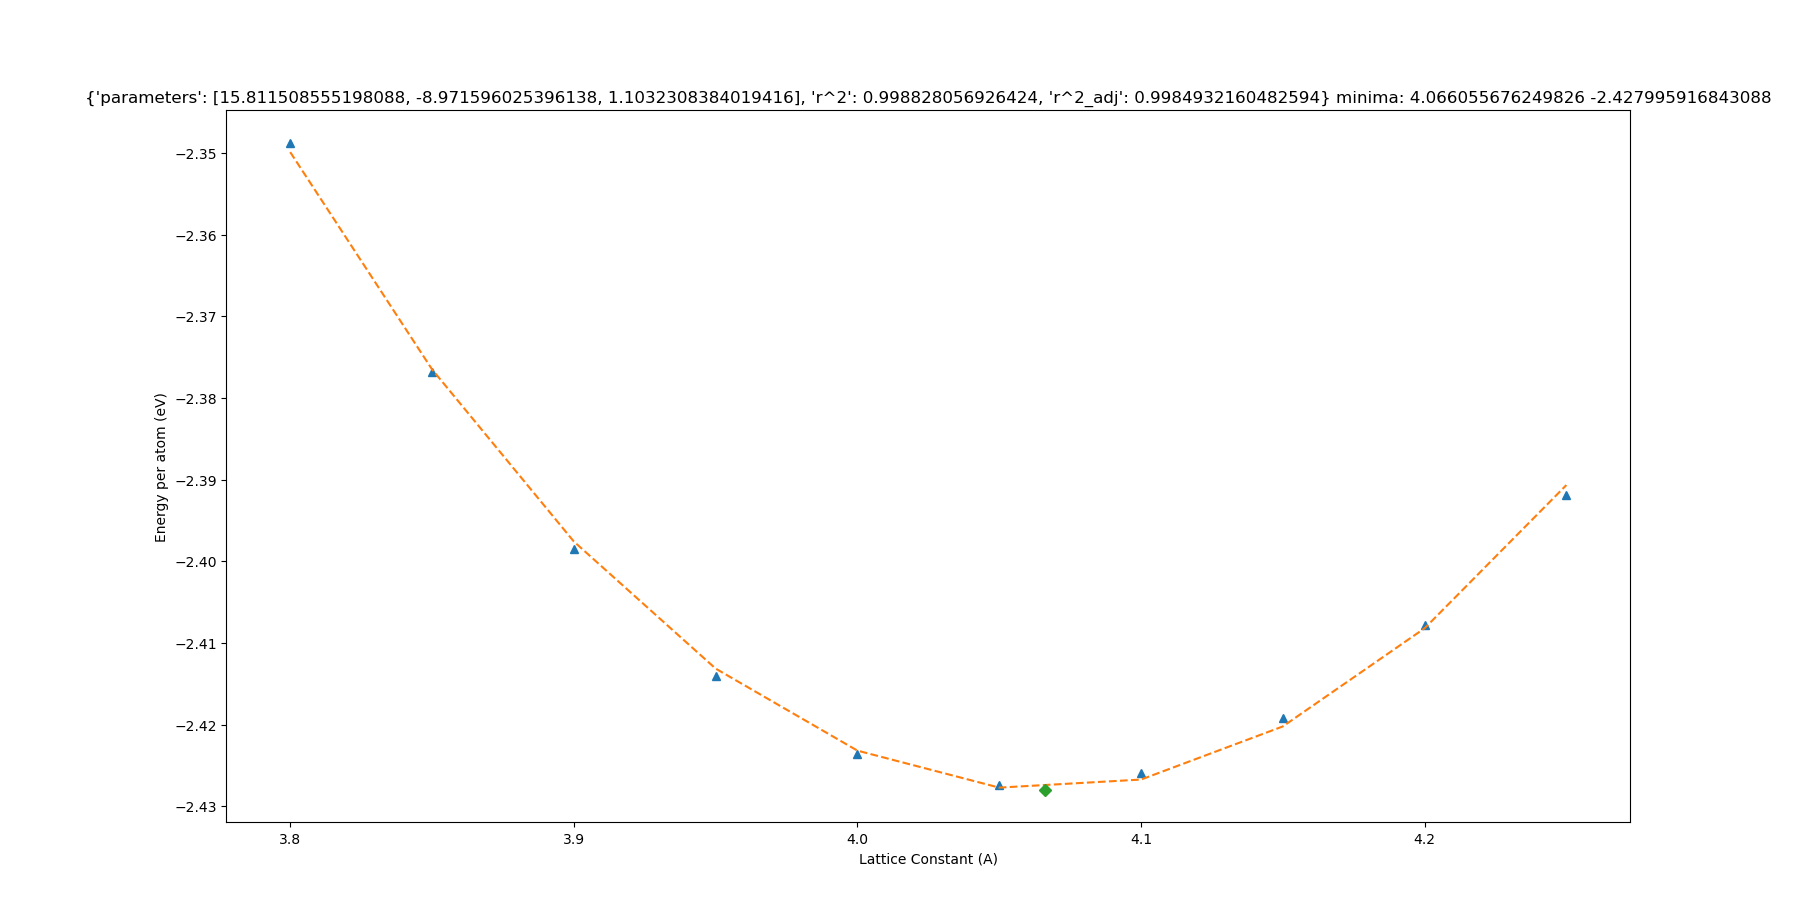
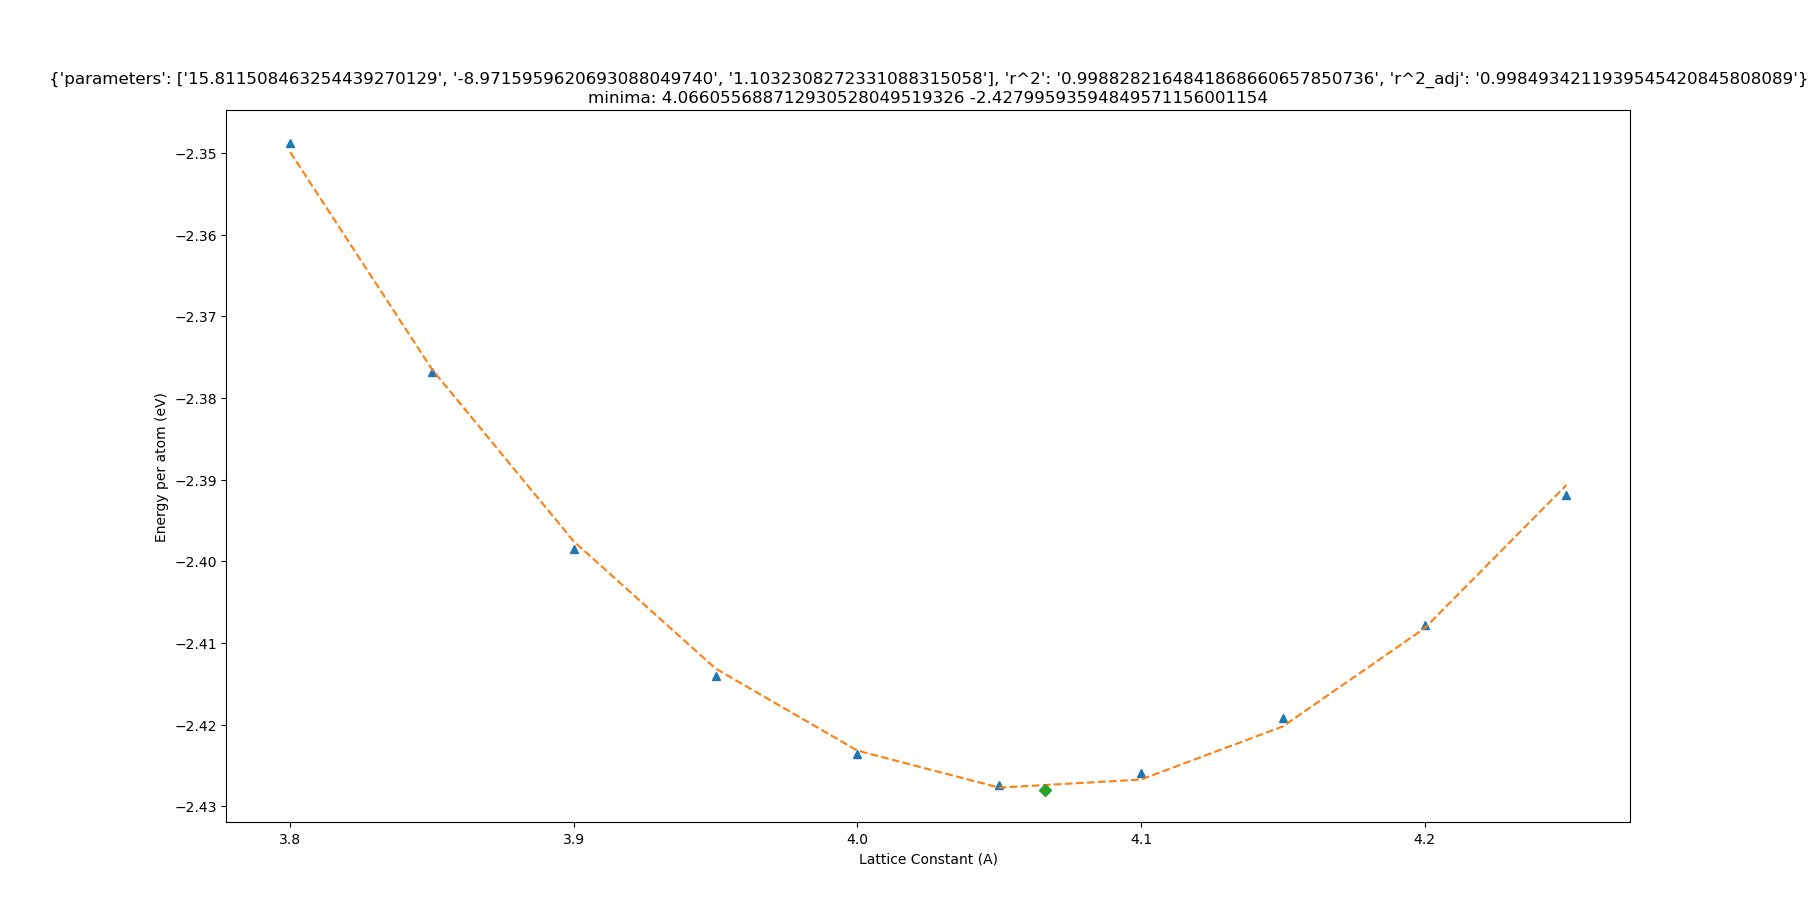
Add files via upload

Changed region(s): [[0.0309, 0.0606, 0.9895, 0.1212]]

diff --git a/lammps/Al/Al_lmp.py b/lammps/Al/Al_lmp.py
@@ -1,8 +1,8 @@
-from ml_methods.algorithms import LinReg, Predict
+from ml_methods.algorithms import LinReg, Predict, SolveFn
 from ml_methods.utils import GetData
 from ml_methods.matrix import matx
 from ml_methods.data import data, datautils
-from ml_methods.functions import poly, Poly
+from ml_methods.functions import poly, funcutils
 import lammps_logfile
 import matplotlib.pyplot as plt
 
@@ -28,9 +28,9 @@ for j in x:
     l = datautils.powlx(l, [0, ], 2)
     r[j] = LinReg.matrix(l)
     y = Predict.ylinreg(l, r[j]["parameters"])
-    p = poly([r[j]["parameters"] , [0, 1, 2]])
-    p = Poly.polytoan(Poly.ndpoly(p, 1))
-    p = Poly.rootrre(p[0], p[1], 1, [3 + (i / 5) for i in range(10)], 1000, 0.001)
+    p = poly(matx([r[j]["parameters"] , [0, 1, 2]]))
+    p = funcutils.polytoan(funcutils.ndpoly(p, 1))
+    p = SolveFn.rootrre((p[0], p[1]), 1, [3 + (i / 5) for i in range(10)], 1000, 0.001)
     for i in p.values():
         if i[0] != float('nan'):
             p = i[0]
@@ -41,6 +41,6 @@ for j in x:
     plt.plot([p, ], [ym, ], 'D')
     plt.xlabel('Lattice Constant (A)')
     plt.ylabel('Energy per atom (eV)')
-    plt.title(str(r[j])+" minima: "+str(p)+" "+str(ym))
+    plt.title(str(r[j])+"\nminima: "+str(p)+" "+str(ym))
     plt.show()
 
